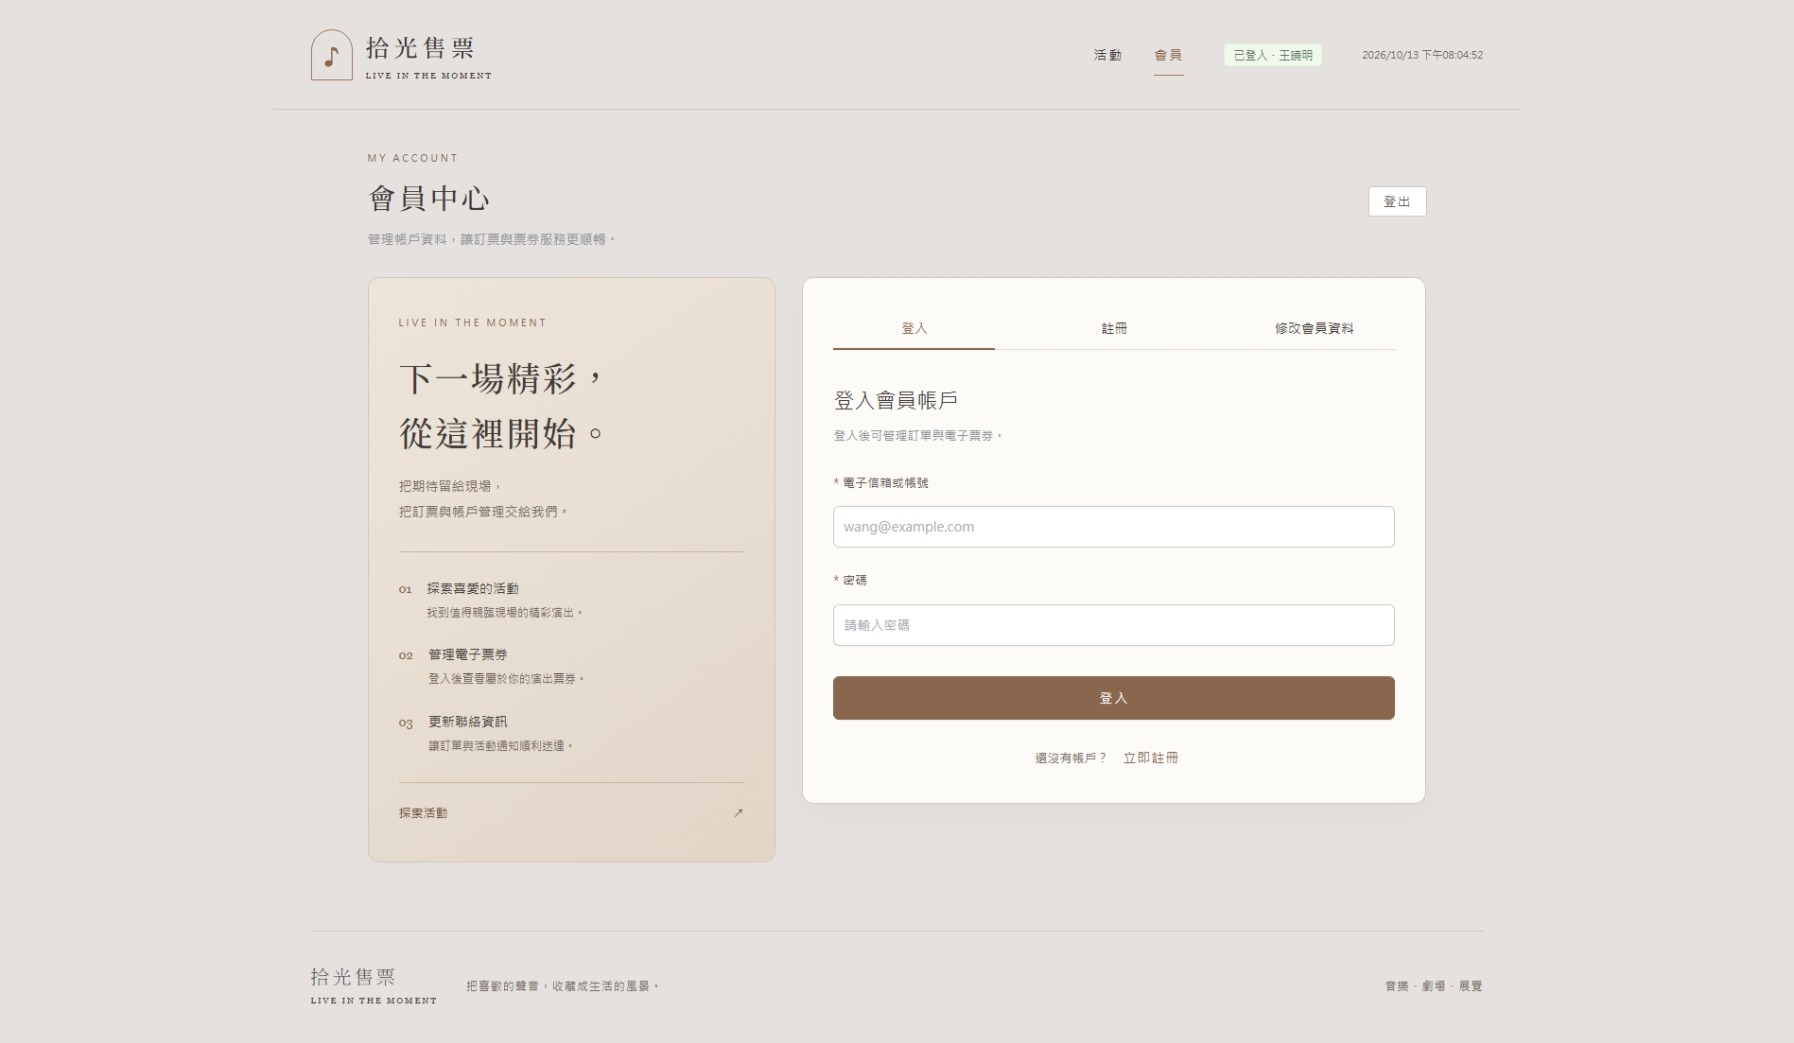
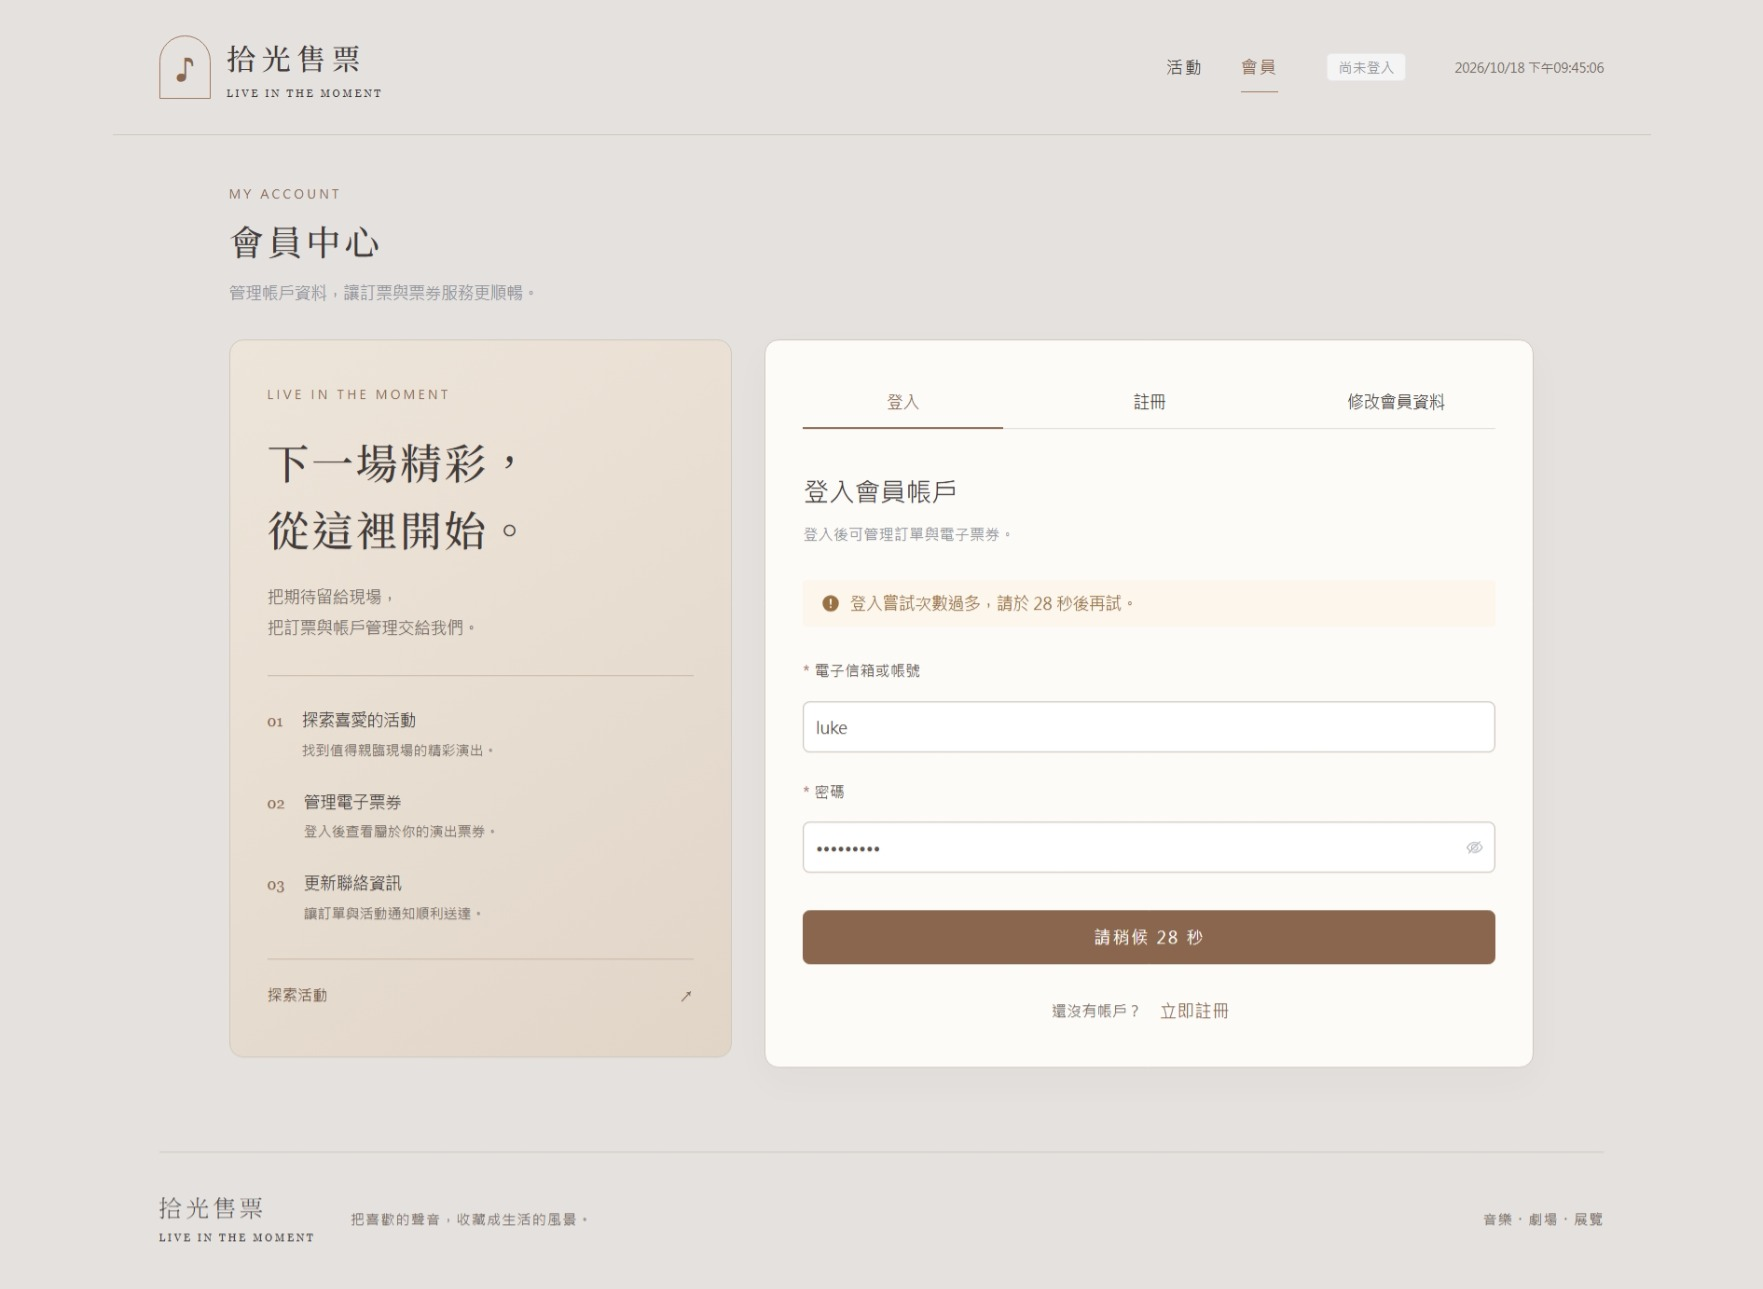
docs: 更新登入等待說明與功能文件
- 預設最多等待 60 秒及登入按鈕行為
- 安全設定與功能規劃

diff --git a/FEATURES_ROADMAP.md b/FEATURES_ROADMAP.md
@@ -18,7 +18,7 @@
 
 | 領域 | 狀態 | 現況 |
 | --- | --- | --- |
-| 會員與驗證 | ✅ | 註冊、登入、登出、JWT Access/Refresh Token、Redis Token 管理 |
+| 會員與驗證 | ✅ | 註冊、登入、登出、JWT Access/Refresh Token、Redis Token 管理；登入太頻繁時顯示等待秒數，並避免連續點擊登入 |
 | 活動與場次 | ✅ | 活動查詢、新增／修改活動，各活動可建立多個場次；已有場次的活動禁止刪除並提供個人 WebSocket 警告與 API 備援提示 |
 | 訂票流程 | 🟡 | 已完成交易、集中狀態轉換、座位唯一占用、建立訂單冪等與逾期補償；退款與完整驗收仍待完成 |
 | 選座 | ✅ | 活動類型決定座位排數上限（50／100／150），座位圖可快速跳排並逐排顯示；已有場次座位與資料庫唯一約束，查詢依場次隔離；新版畫面與真實資料庫修改流程仍待驗證 |
@@ -167,7 +167,8 @@ PENDING_PAYMENT ──付款──> PAID ──退款──> REFUNDED
 - [ ] Spring Boot Actuator 健康檢查與 readiness／liveness。
 - [ ] 每個請求加入 correlation ID，使用結構化日誌。
 - [ ] 監控延遲、錯誤率、訂位成功率、庫存衝突及逾期數量。
-- [ ] 對登入、訂位、付款及驗票 API 加入 Rate Limiting。
+- [x] 已限制 API、登入、註冊、更新憑證、下單及 WebSocket 的使用次數，避免短時間大量請求；登入太頻繁時顯示等待秒數，預設最多等 60 秒，時間到了才能再按登入。部署設定見 [安全設定與部署](docs/SECURITY.md)。
+- [ ] 補齊未來金流與驗票 API 的專用流量限制。
 - [ ] 熱門活動加入虛擬排隊室及短效入場憑證。
 - [ ] 建立負載測試報告，記錄吞吐量、P95/P99 延遲與錯誤率。
 - [ ] 負載測試前定義執行環境、資料量、流量模型、測試時長及通過門檻；區分預期的售罄／座位衝突與非預期系統錯誤。

diff --git a/concert-ticket-frontend/README.md b/concert-ticket-frontend/README.md
@@ -64,6 +64,7 @@ WebSocket 透過 STOMP `CONNECT` 的 Authorization 標頭驗證，訂閱 `/user/
 ## 功能
 
 - 會員註冊、登入、修改會員資料與登出。
+- 按下登入後顯示處理中，避免連續點擊。短時間內登入太多次時，畫面顯示剩餘等待秒數，預設最多等 60 秒；倒數結束後，登入按鈕就能再按。
 - 瀏覽、搜尋與篩選活動；活動列表與詳情可查看圖片並點擊放大。
 - 選擇活動日期、場次與座位後建立訂單；不可用座位依 `session_id` 查詢。座位圖逐排顯示排號，可快速跳至指定排，座位區可捲動，並顯示可選／已選／不可選狀態。
 - 查看票券、付款與取消訂單，接收個人訂單通知。
@@ -72,6 +73,10 @@ WebSocket 透過 STOMP `CONNECT` 的 Authorization 標頭驗證，訂閱 `/user/
 - 加入／取消活動收藏及只看收藏。
 
 同次訂位重試保留 `Idempotency-Key`，成功後清除；重整頁面不保留 key。付款目前為訂單狀態操作，尚未串接外部金流。
+
+等待秒數由伺服器告知。例如這一分鐘已過 20 秒，就再等約 40 秒；若是 Nginx 擋下請求，則提示等待 60 秒。倒數結束後需要自己再按登入，系統不會自動登入。若伺服器沒有提供有效的等待時間，畫面只會提示「登入嘗試次數過多，請稍後再試。」。
+
+前端透過回應中的 `Retry-After` 讀取等待時間，支援秒數或日期格式；後端已允許不同網域的前端讀取這項資訊。離開會員頁時會停止倒數計時。
 
 銷售儀表板使用 Chart.js 顯示各場次票況的水平堆疊長條圖，以及訂單狀態圓環圖。滑鼠提示顯示票數或訂單筆數與比例，點擊圖例可切換資料顯示；重新整理 API 資料後，圖表同步更新。
 

diff --git a/docs/SECURITY.md b/docs/SECURITY.md
@@ -35,6 +35,10 @@
 
 可透過 `security.limits.*` 調整，例如 `SECURITY_LIMITS_API_PER_IP=600`。
 
+短時間內登入太多次時，會員頁會提示還要等幾秒，等待期間不能再按登入。依預設設定，最多等 60 秒；例如這一分鐘已過 20 秒，就再等約 40 秒。若是 Nginx 擋下請求，則提示等待 60 秒。倒數結束後需要自己再按登入，系統不會自動重試。
+
+按下登入後也會顯示處理中，避免連續點擊。若伺服器沒有提供有效的等待時間，畫面只會提示稍後再試。等待時間由 `Retry-After` 回應標頭提供，後端已允許不同網域的前端讀取。
+
 WebSocket 在**每個後端執行個體**最多允許 1000 條連線，每個 IP 20 條、每位會員 5 條。請求次數限制透過 Redis 跨執行個體共用，但連線數上限各自計算。
 
 Nginx 另外限制一般 API 每秒 10 次、登入與註冊每分鐘 10 次，並限制短時間突增的請求與同時連線數。這些規則只在前端 Dockerfile 的最後 production 階段生效；目前 Compose 使用 Vite 開發伺服器，不會套用。

diff --git a/concert-ticket-backend/README.md b/concert-ticket-backend/README.md
@@ -73,6 +73,8 @@ WebSocket 端點為 `/api/ws`，前端透過 STOMP `CONNECT` 的 `Authorization:
 
 ## JWT 登入驗證流程
 
+短時間內登入太多次時，後端會拒絕請求，並告知還要等幾秒，預設最多等 60 秒。會員頁會顯示倒數，等時間到了才能再按登入。後端使用 HTTP 429 表示請求過多，並透過 `Retry-After` 提供等待時間；已允許不同網域的前端讀取這項資訊。次數上限與部署設定見 [安全設定與部署](../docs/SECURITY.md)。
+
 Token 是登入後使用的身分憑證。Access Token 用來呼叫 API，Refresh Token 用來更新過期的 Access Token。
 
 1. 前端送出帳號與密碼，後端確認是否正確。

diff --git a/README.md b/README.md
@@ -181,6 +181,8 @@
 
 活動可公開瀏覽；訂票需要會員權限，後台操作需要管理員權限。登入後使用 Access Token 呼叫 API，過期時透過 Refresh Token 更新；登出會讓登入憑證失效。
 
+按下登入後，按鈕會顯示處理中，避免連續點擊。短時間內登入太多次時，畫面會提示還要等幾秒，等待期間不能再按登入。預設最多等 60 秒，倒數結束後就能再次登入。安全與部署設定見 [安全設定與部署](docs/SECURITY.md)。
+
 ### 訂單與座位
 
 訂單有待付款（`PENDING_PAYMENT`）、已付款（`PAID`）、已取消（`CANCELLED`）、已逾期（`EXPIRED`）四種主要狀態。
